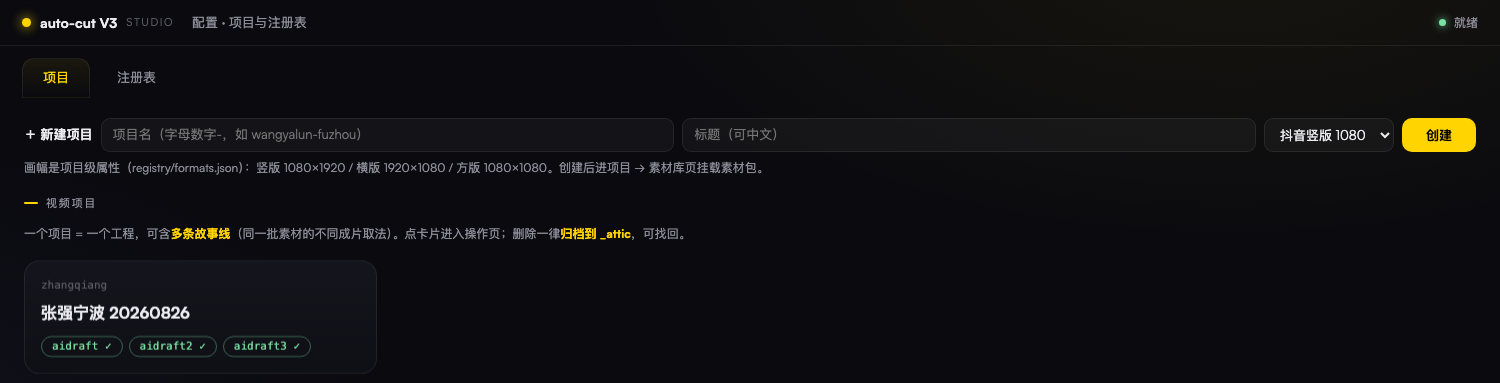
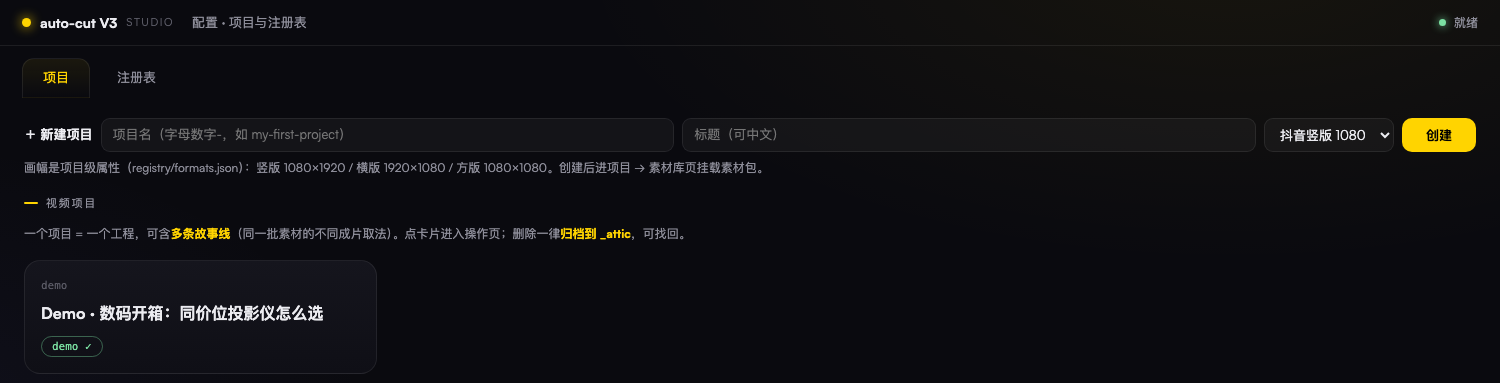
开源就绪：MIT 协议 + 公开版 README + 演示截图（开源准备 2/3）
- LICENSE：MIT（Copyright 2026 auto-cut contributors）
- README 公开化：定位从"装修口播"泛化为口播短视频流水线（装修仅为使用场景之一）；
  顶部加 CI/License/Python/平台/零依赖/ffmpeg 六个 badge；界面速览提至文首；
  删内部文档指针，加贡献指南
- 截图全换演示数据重拍：沙箱建 demo 项目（合成渐变素材+通用开箱脚本，无任何真实客户数据），
  headless Chrome 截主页/创作台/素材库——原截图含客户项目名与人物画面，公开=泄露
- 前端占位示例 wangyalun-fuzhou → my-first-project
- T23 注入锚随虚构名替换修正（43/43 全绿）

Changed region(s): [[0.0307, 0.718, 0.2147, 0.9191], [0.1533, 0.3446, 0.2453, 0.3734]]

diff --git a/studio/index.html b/studio/index.html
@@ -291,7 +291,7 @@ input.req{width:100%;font-size:11px;color:var(--txt);background:rgba(255,255,255
   <div class="card" style="margin-bottom:14px">
     <div style="display:flex;gap:8px;align-items:center;flex-wrap:wrap">
       <b style="font-size:13px">＋ 新建项目</b>
-      <input id="wz-name" placeholder="项目名（字母数字-，如 demo-fuzhou）" style="flex:1;min-width:180px">
+      <input id="wz-name" placeholder="项目名（字母数字-，如 my-first-project）" style="flex:1;min-width:180px">
       <input id="wz-title" placeholder="标题（可中文）" style="flex:1;min-width:140px">
       <select id="wz-fmt" style="max-width:130px"></select>
       <button class="primary" onclick="wizardCreate()">创建</button>

diff --git a/tests/e2e.py b/tests/e2e.py
@@ -648,8 +648,8 @@ def t23_dossier_selfaudit():
         inj1 = json.loads(json.dumps(files["M0124"]))
         ws = inj1["transcript"]["words"]
         for i in range(len(ws) - 3):
-            if [w["text"] for w in ws[i:i + 4]] == ["盛", "梅", "合", "院"]:
-                ws[i]["text"], ws[i + 2]["text"] = "圣", "和"
+            if [w["text"] for w in ws[i:i + 4]] == ["檀", "溪", "公", "馆"]:
+                ws[i]["text"], ws[i + 2]["text"] = "潭", "工"
                 break
         r1 = dossier.propernoun_vote(list({**files, "M0124": inj1}.values()), TERMS)
         # 注入2：窗帘盒 → 窗帘箱（M0109 三字同位二）

diff --git a/README.md b/README.md
@@ -1,8 +1,28 @@
-# auto-cut v3 · 装修口播短视频流水线
+# auto-cut v3 · 口播短视频自动剪辑流水线
 
-**一句话**：把一批装修工地的手机实拍素材，变成一条带卡拉OK字幕、BGM、转场的竖版口播短视频。人（浏览器 Studio）和 Agent（CLI/HTTP）双端同权操作，全程文件传递、每个节点可独立失败。
+[![CI](https://github.com/noah-1106/auto-cut-v3/actions/workflows/ci.yml/badge.svg)](https://github.com/noah-1106/auto-cut-v3/actions/workflows/ci.yml)
+[![License: MIT](https://img.shields.io/badge/License-MIT-blue.svg)](LICENSE)
+[![Python 3.10+](https://img.shields.io/badge/python-3.10+-blue?logo=python&logoColor=white)](https://www.python.org)
+[![Platform](https://img.shields.io/badge/platform-macOS%20%7C%20Windows-lightgrey)](.)
+[![Zero pip deps](https://img.shields.io/badge/dependencies-zero%20pip-brightgreen)](.)
+[![ffmpeg 6.0+](https://img.shields.io/badge/ffmpeg-6.0%2B-green)](https://ffmpeg.org)
 
-**业务目标**：Agent 全自动从原始素材到成片；人是规则制定者（改 config 阈值/策略）+ 成片终审，不进流水线当卡点。验收：换新素材包冷启动，全程零人工急救。
+**一句话**：把一批手机实拍素材，自动变成一条带卡拉OK字幕、BGM、转场的竖版口播短视频。人（浏览器 Studio）和 Agent（CLI/HTTP）双端同权操作，全程文件传递、每个节点可独立失败。
+
+**设计哲学**：Agent 全自动从原始素材到成片；人是规则制定者（改 config 阈值/策略）+ 成片终审，不进流水线当卡点。验收标准：换一批新素材包冷启动，全程零人工急救。
+
+---
+
+## 界面速览
+
+**主页**：建项目、效果注册表管理入口，项目卡片直达创作台。
+![主页](docs/screenshots/home.png)
+
+**创作台**：顶部管线进度条（九环节 ✓/○ 实时状态）｜成片监视器｜故事线大纲与全局设定（字幕风格/BGM/段落/封面）｜幕序列金线（横向即时间轴，＋插入新幕，点幕预览秒级低清样张）。
+![创作台](docs/screenshots/studio.png)
+
+**素材库**：项目切片与仓库级素材包，转写文本就地校对，素材卡带审核徽标（✓ 可用 / ◌ 待审 / ✕ 拍摄废片）与缺陷台账。
+![素材库](docs/screenshots/library.png)
 
 ---
 
@@ -65,23 +85,12 @@ python3 autocut3/transcribe.py myproj
 python3 autocut3/understand.py myproj
 
 # ④ AI 起草故事线（读 dossier，产出 storylines/aidraft.json）
-curl -X POST localhost:8765/api/draft/myproj -d '{"intent":"装修避坑干货口播"}' -H 'Content-Type: application/json'
+curl -X POST localhost:8765/api/draft/myproj -d '{"intent":"数码开箱口播"}' -H 'Content-Type: application/json'
 
 # ⑤ 渲染成片
 curl -X POST "localhost:8765/api/render-start/myproj?story=aidraft"
 # 产物：projects/myproj/out-aidraft.mp4 + subtitle-aidraft.ass + qc-report.json
 ```
-
-### 3. 界面速览
-
-**主页**：建项目、效果注册表管理入口，项目卡片直达创作台。
-![主页](docs/screenshots/home.png)
-
-**创作台**：顶部管线进度条（九环节 ✓/○ 实时状态）｜成片监视器｜故事线大纲与全局设定（字幕风格/BGM/段落/封面）｜幕序列金线（横向即时间轴，＋插入新幕，点幕预览秒级低清样张）。
-![创作台](docs/screenshots/studio.png)
-
-**素材库**：项目切片与仓库级素材包，转写文本就地校对，素材卡带审核徽标（✓ 可用 / ◌ 待审 / ✕ 拍摄废片）与缺陷台账。
-![素材库](docs/screenshots/library.png)
 
 ---
 
@@ -116,8 +125,8 @@ Studio 顶部管线进度条与 `/api/status/<proj>` 同源——Agent 推进，
 
 registry/*.json 是人和 Agent 共用的"选什么效果"的唯一事实源。管理入口：首页效果卡片 → 管理抽屉（试听/看图/字幕样张/增删改/导入）。
 Agent 起草时读同一张注册表选 BGM/转场/**字幕样式/贴纸/音效**（全部进 draft 提示词，LLM 按幕语义选用，validate 白名单透传）；字幕样式、贴纸、音效按 id 引用。**改注册表即改下一次渲染，无需动代码。**
-BGM 条目支持 `segments`（曲内段落：name/in/out/desc）——幕级音乐轨和全局音频都可选用段落，配合 loop 标志做段落循环；当前各曲默认"整条"，细段落待试听审计补。
-音效=12 槽位社交媒体爆款语义（转场嗖/强调击打/提示叮/悬疑渐强/喜剧弹弓/倒计时/快门/成功短奏/错误蜂鸣/低频轰击/弹出泡泡/尴尬蟋蟀），全部 Mixkit 免费商用，来源与许可存 `assets/sfx/viral/sources-manifest.json` + `LICENSE-mixkit.txt`，终审试听备选同清单。
+BGM 条目支持 `segments`（曲内段落：name/in/out/desc）——幕级音乐轨和全局音频都可选用段落，配合 loop 标志做段落循环。
+音效=12 槽位社交媒体爆款语义（转场嗖/强调击打/提示叮/悬疑渐强/喜剧弹弓/倒计时/快门/成功短奏/错误蜂鸣/低频轰击/弹出泡泡/尴尬蟋蟀），Mixkit 免费商用，来源与许可存 `assets/sfx/viral/sources-manifest.json` + `LICENSE-mixkit.txt`。
 AI 封面图走 image_gen.py（MiniMax image-01，services.json `image` 段）；AI 视频素材走 video_gen.py。
 
 ---
@@ -137,7 +146,7 @@ assets/              # 效果素材本体（registry 的 file 字段指向这里
 materials/packs/     # 用户素材仓（大文件，不入 git）
 projects/<name>/     # 项目工作区：storylines/ 故事线、out-*.mp4 成片、qc-report.json（不入 git，留 .gitkeep 占位）
 config/              # services.json(服务key) lexicon.json(校对词表) qc_rules.json
-docs/                # 设计文档：pipeline-v2.md(管线改造立项·已落地) dev-log.md(开发流水账) 审查史
+docs/                # 设计文档（pipeline-v2.md=管线自动化改造设计）
 tests/               # e2e.py(45项全量) rmw_smoke.py(并发) audit.py(代码审计器)
 bin/                 # ffmpeg 6.0+（自备，不入 git）
 ```
@@ -165,15 +174,14 @@ python3 tests/audit.py                                     # 代码审计器
 
 | 症状 | 先看什么 |
 |---|---|
-| 上传 Broken pipe / 000 | materials/packs/<包>/ 目录是否存在（v3 已自动兜底建）；文件是否 >500MB |
+| 上传 Broken pipe / 000 | materials/packs/<包>/ 目录是否存在（已自动兜底建）；文件是否 >500MB |
 | "bad filename" | 文件名含 `/` `\` `..` 或以 `.` 开头（中文名是允许的） |
 | 转写 401/超时 | config/services.json 的 key；minimax 云端限制 ≤50MB/≤500s |
 | 渲染卡在 ffmpeg | projects/<proj>/render.status 的 tail 字段有最后 8 行 stderr |
 | 字幕不换页/叠字 | subtitle-*.ass 是否生成；words 词轨是否为空（转写失败会让字幕静默消失） |
 | 字幕与语音错位 | 词轨来源是否 VAD（narration.words）；素材词轨平移方案已废弃（时间戳漂移） |
 | 配音开头有残留杂音 | dubgate 是否跑过；音频是否掐头（按能量包络 0.1s 级定位，不信 ASR 词轨） |
-| 改了代码不生效 | **studio.py 是常驻进程，改完必须重启**（历史上两次"改了没生效"都是模块缓存） |
-| 中文素材引用 400 | 旧版本残留——确保跑在含 `_safe_id` 的版本（git log 有"中文id 全放行"提交） |
+| 改了代码不生效 | **studio.py 是常驻进程，改完必须重启**（两次"改了没生效"都是模块缓存） |
 
 ---
 
@@ -185,10 +193,11 @@ python3 tests/e2e.py      # 45 项端到端（上传/起草/渲染/并发/安全
 python3 tests/audit.py    # 七维审计：路由安全/数据断链/JS函数对照/文档时效/git卫生
 python3 tests/rmw_smoke.py# 读-改-写并发原子性
 ```
+每次 push 到 main，GitHub Actions 在 windows-latest + ubuntu-latest 双端跑全量 e2e（含真实云端 LLM/ASR/TTS 冒烟，key 走 repository secret）。
 
 ---
 
-## 给 Agent 的硬规则（踩坑提炼，动手前必读——违反=事故重演）
+## 工程铁律（踩坑提炼，贡献者/Agent 动手前必读——违反=事故重演）
 
 1. **ASR 词级时间戳是推测值**（素材间漂移 0~3s、同一音频内不均匀）——禁止直接作裁剪锚/字幕时间源；时间源=vadwords.py 的 VAD 物理测量（silencedetect 语音段）
 2. **词轨黑区**：拍摄口令/嘟囔 ASR 会漏转写——按"能量有语音、词轨无文本"检测并掐除（事故：口令"三二一走"进成片）
@@ -204,12 +213,14 @@ python3 tests/rmw_smoke.py# 读-改-写并发原子性
 
 ## 已知边界
 
-- 本地 TTS（Audio8-TTS，Apache 2.0）音色库待按客户扩充（当前 narrator_default 一个）
+- 本地 TTS（Audio8-TTS，Apache 2.0）音色库按需扩充（默认 narrator_default 一个）
 - dub 配音成片响度可能偏轻（R6 warn 不拦交付，平台会自行归一，终审核对混音比例）
 
 ## 更多文档
 
-- 开发流水账与版本沿革：`docs/dev-log.md`
-- 管线 v2 改造设计（已落地，保留为史料）：`docs/pipeline-v2.md`
-- 审查史与失败模式清单：项目根 `CLAUDE.md`、`docs/review-*.md`
-- 代码托管：GitHub 私有库；config/services.json 已永久 gitignore（key 走环境变量或 api_key_file）
+- 管线自动化改造设计：`docs/pipeline-v2.md`
+- 素材音效的第三方许可：`assets/sfx/viral/LICENSE-mixkit.txt`
+
+## 贡献
+
+欢迎 Issue 和 PR。提交前请跑 `python3 tests/e2e.py --fast`（43 项离线回归）确保全绿；涉及渲染链的改动请在 macOS 和 Windows 双侧验证（或依赖 CI 双端矩阵）。
